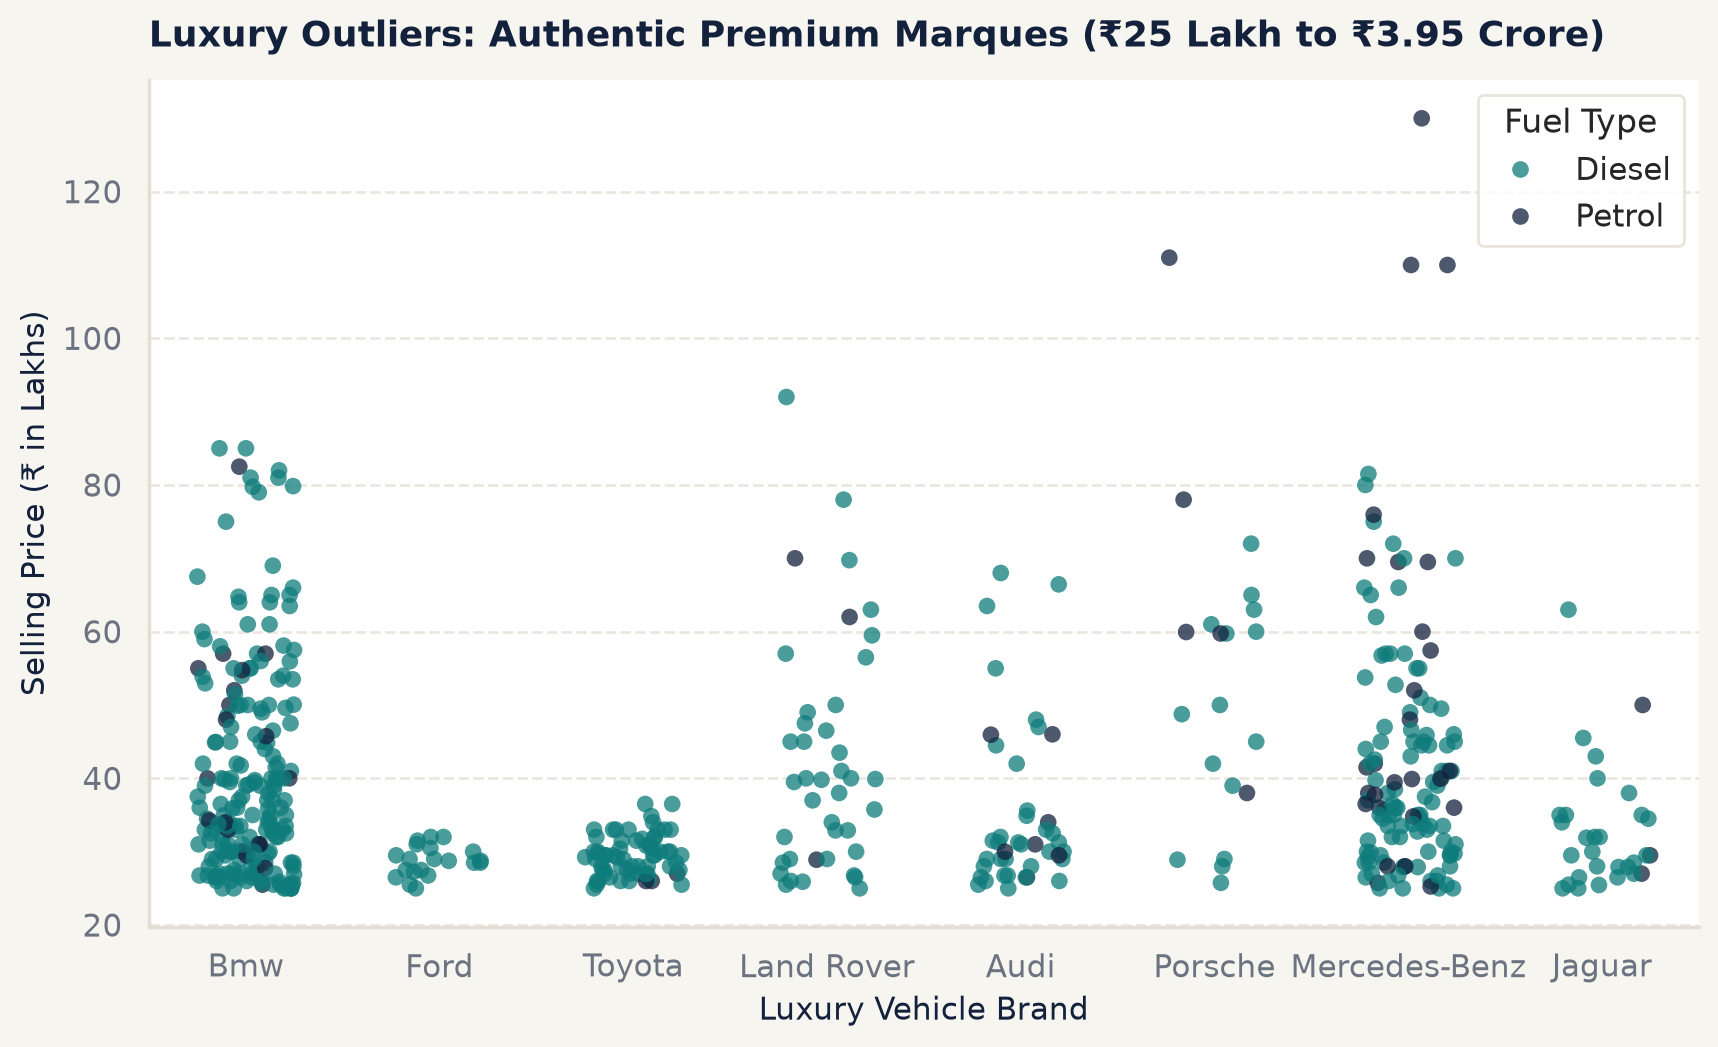
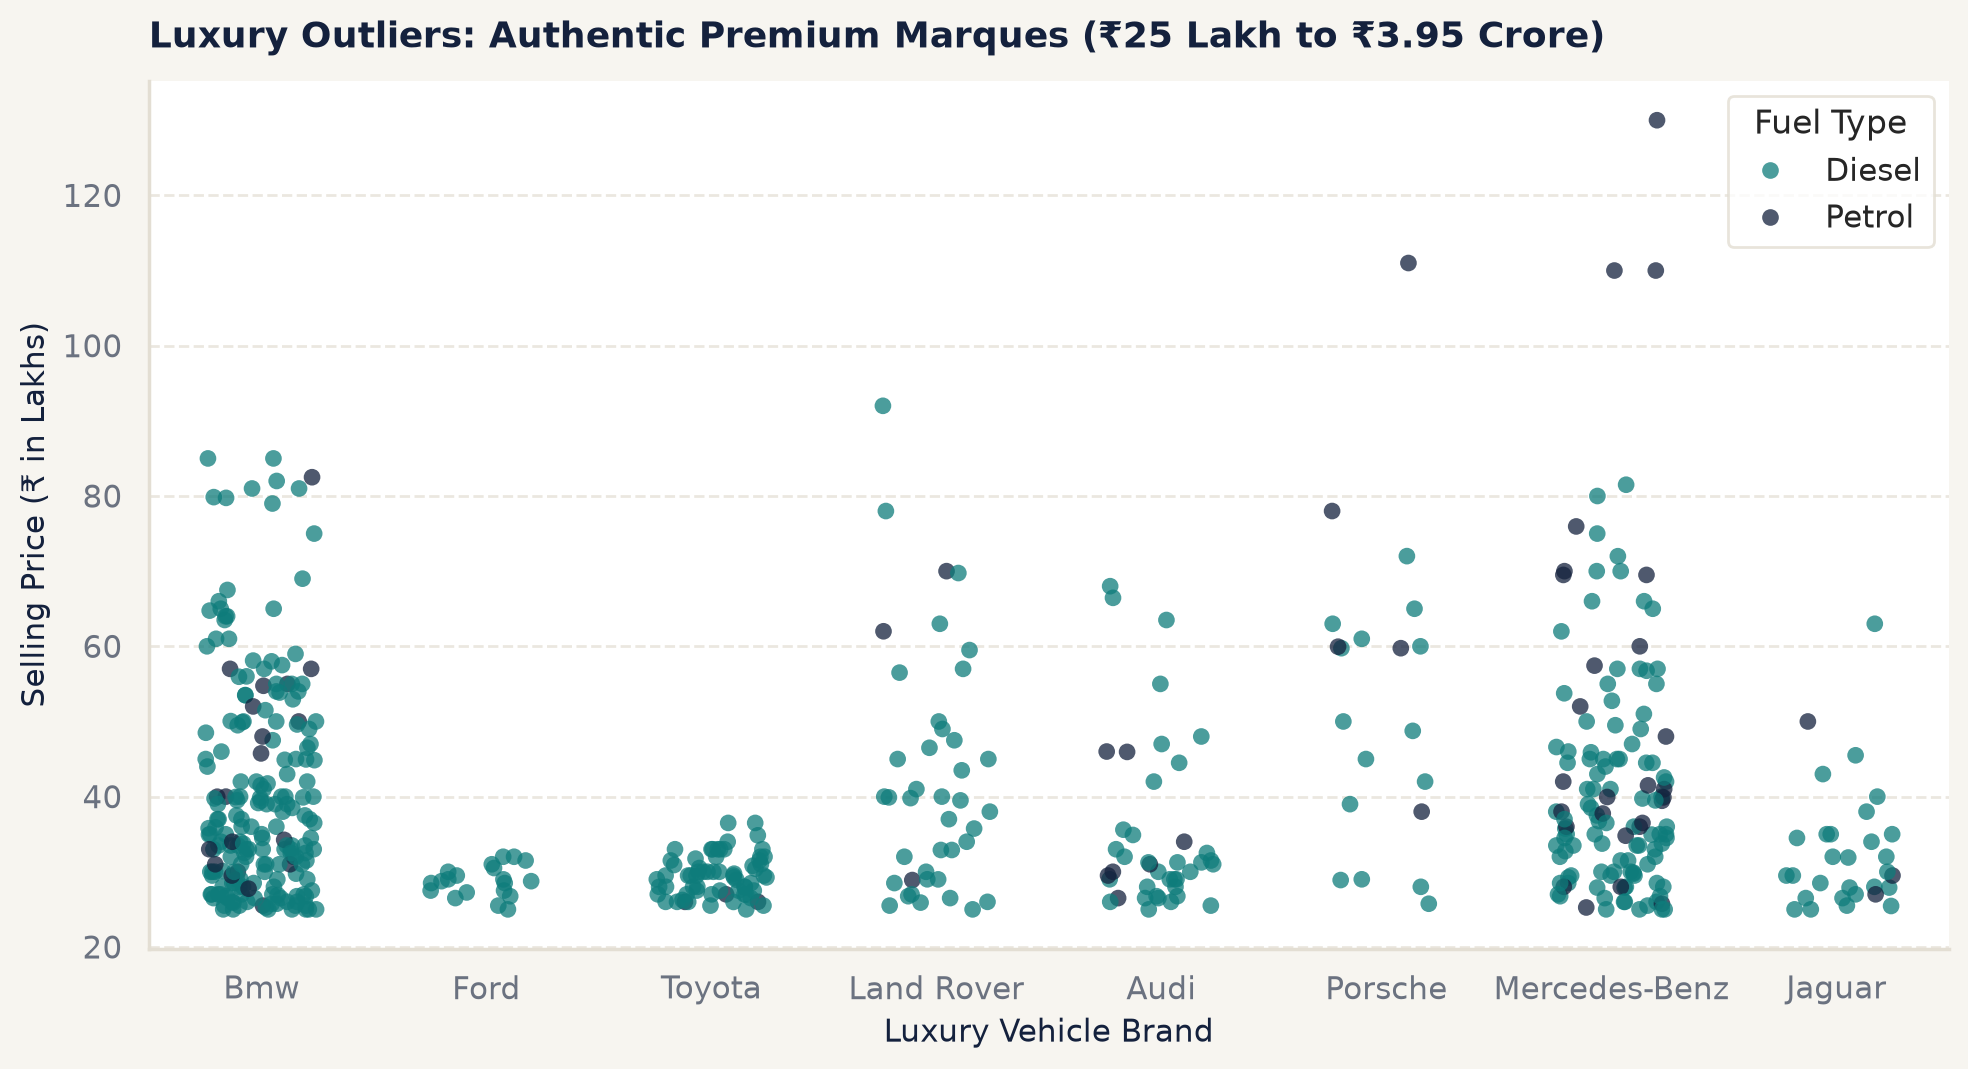
phase-8: keep tests out of generated data, seed strip-plot jitter, add run comparison
test_run_cleaning_end_to_end rewrote data/interim/cars_clean.csv, so make retrained
the model before test and predict. It now writes to tmp_path. eda_26 used unseeded
jitter and differed between runs; it is now seeded with the project seed.
Adds a test that every cleaning rule leaves its input unchanged, and
scripts/compare_runs.py for the clean-clone comparison.

diff --git a/scripts/compare_runs.py b/scripts/compare_runs.py
@@ -1,0 +1,146 @@
+"""Compare the outputs of two checkouts of this project (reproducibility audit, Phase 8).
+
+Usage:
+    python scripts/compare_runs.py <reference_root> <candidate_root> [--out report.csv]
+
+For every CSV under reports/tables and reports/predictions, every JSON under models/, the
+cleaned data and the split files, it reports whether the two runs agree. Numeric columns
+must match within ``RTOL``/``ATOL``; text columns must match exactly. Columns that measure
+wall-clock time or record when or where something ran are skipped (listed in
+``VOLATILE_COLUMNS`` / ``VOLATILE_JSON_KEYS``). PNG figures are compared byte for byte.
+"""
+
+import argparse
+import hashlib
+import json
+import logging
+from pathlib import Path
+
+import numpy as np
+import pandas as pd
+
+RTOL = 1e-6
+ATOL = 1e-9
+CSV_GLOBS = ("reports/tables/*.csv", "reports/predictions/*.csv")
+DATA_FILES = (
+    "data/interim/cars_clean.csv",
+    "data/processed/train.csv",
+    "data/processed/test.csv",
+    "data/processed/split_indices.json",
+)
+FIGURE_GLOB = "reports/figures/*.png"
+SKIPPED_TABLES = {"predictor_timing.csv"}
+VOLATILE_COLUMNS = {
+    "fit_time_sec",
+    "pred_time_sec",
+    "datetime_start",
+    "datetime_complete",
+    "duration",
+}
+VOLATILE_JSON_KEYS = {"timestamp_utc", "git_commit"}
+
+logger = logging.getLogger("compare_runs")
+
+
+def file_digest(path: Path) -> str:
+    """SHA-256 of a file's bytes."""
+    return hashlib.sha256(path.read_bytes()).hexdigest()
+
+
+def max_numeric_gap(left: pd.Series, right: pd.Series) -> float:
+    """Largest absolute difference between two numeric columns (NaN pairs count as equal)."""
+    both_nan = left.isna() & right.isna()
+    gap = (left - right).abs().where(~both_nan, 0.0)
+    return float(gap.max()) if len(gap) else 0.0
+
+
+def is_measure(column: pd.Series) -> bool:
+    """True for numeric, non-boolean columns (compared with a tolerance)."""
+    return pd.api.types.is_numeric_dtype(column) and not pd.api.types.is_bool_dtype(column)
+
+
+def compare_frames(left: pd.DataFrame, right: pd.DataFrame) -> tuple[bool, float, str]:
+    """Compare two tables column by column, skipping volatile columns.
+
+    Returns:
+        tuple: (match, largest numeric gap, note).
+    """
+    if list(left.columns) != list(right.columns) or len(left) != len(right):
+        return False, float("nan"), f"shape {left.shape} vs {right.shape}"
+    worst, failed = 0.0, []
+    for column in left.columns:
+        if column in VOLATILE_COLUMNS:
+            continue
+        a, b = left[column], right[column]
+        if is_measure(a) and is_measure(b):
+            worst = max(worst, max_numeric_gap(a, b))
+            if not np.allclose(a, b, rtol=RTOL, atol=ATOL, equal_nan=True):
+                failed.append(column)
+        elif not a.fillna("").astype(str).equals(b.fillna("").astype(str)):
+            failed.append(column)
+    return not failed, worst, ", ".join(failed)
+
+
+def strip_keys(value: object) -> object:
+    """Drop volatile keys from nested JSON data."""
+    if isinstance(value, dict):
+        return {k: strip_keys(v) for k, v in value.items() if k not in VOLATILE_JSON_KEYS}
+    if isinstance(value, list):
+        return [strip_keys(v) for v in value]
+    return value
+
+
+def compare_file(reference: Path, candidate: Path, relative: str) -> dict[str, object]:
+    """Compare one file present in the reference run with its counterpart."""
+    row: dict[str, object] = {"file": relative, "match": False, "max_abs_gap": np.nan, "note": ""}
+    if not candidate.exists():
+        row["note"] = "missing in candidate"
+    elif relative.endswith(".csv"):
+        match, gap, note = compare_frames(pd.read_csv(reference), pd.read_csv(candidate))
+        row.update(match=match, max_abs_gap=gap, note=note)
+    elif relative.endswith(".json"):
+        left = strip_keys(json.loads(reference.read_text(encoding="utf-8")))
+        right = strip_keys(json.loads(candidate.read_text(encoding="utf-8")))
+        row["match"] = left == right
+    else:
+        row["match"] = file_digest(reference) == file_digest(candidate)
+        row["note"] = "byte comparison"
+    return row
+
+
+def relative_paths(root: Path) -> list[str]:
+    """Every file the audit compares, relative to the project root."""
+    found = [p for pattern in CSV_GLOBS for p in sorted(root.glob(pattern))]
+    found += sorted(root.glob("models/*.json")) + sorted(root.glob(FIGURE_GLOB))
+    names = [p.relative_to(root).as_posix() for p in found if p.name not in SKIPPED_TABLES]
+    return names + [name for name in DATA_FILES if (root / name).exists()]
+
+
+def compare_runs(reference_root: Path, candidate_root: Path) -> pd.DataFrame:
+    """Compare every audited file of the reference run with the candidate run."""
+    rows = [
+        compare_file(reference_root / name, candidate_root / name, name)
+        for name in relative_paths(reference_root)
+    ]
+    return pd.DataFrame(rows)
+
+
+def main() -> None:
+    """Parse arguments, compare, log a summary and optionally save the full comparison."""
+    logging.basicConfig(level=logging.INFO, format="%(message)s")
+    parser = argparse.ArgumentParser(description=__doc__.splitlines()[0])
+    parser.add_argument("reference", type=Path)
+    parser.add_argument("candidate", type=Path)
+    parser.add_argument("--out", type=Path, default=None)
+    args = parser.parse_args()
+    result = compare_runs(args.reference, args.candidate)
+    if args.out:
+        result.to_csv(args.out, index=False)
+    logger.info("compared %d files, %d match", len(result), int(result["match"].sum()))
+    for row in result[~result["match"].astype(bool)].itertuples():
+        logger.info("DIFFERS: %s (%s)", row.file, row.note)
+    logger.info("largest numeric gap in matching tables: %s", result["max_abs_gap"].max())
+
+
+if __name__ == "__main__":
+    main()

diff --git a/tests/test_data.py b/tests/test_data.py
@@ -1,5 +1,7 @@
 """Unit and integration tests for data loading, validation, and cleansing rules."""
 
+from pathlib import Path
+
 import pandas as pd
 import pytest
 
@@ -74,6 +76,24 @@ def test_drop_exact_duplicates(sample_raw_df: pd.DataFrame) -> None:
     assert log.rows_after == 4
 
 
+@pytest.mark.parametrize(
+    "rule",
+    [
+        drop_identifier_columns,
+        normalise_text,
+        drop_exact_duplicates,
+        fix_invalid_seats,
+        lambda frame: treat_km_outliers(frame, km_cap=500000),
+    ],
+)
+def test_cleaning_rules_do_not_mutate_their_input(sample_raw_df: pd.DataFrame, rule) -> None:
+    """A4: every cleaning rule returns a new frame and leaves its input untouched."""
+    before = sample_raw_df.copy(deep=True)
+    cleaned, _ = rule(sample_raw_df)
+    pd.testing.assert_frame_equal(sample_raw_df, before)
+    assert cleaned is not sample_raw_df
+
+
 def test_fix_invalid_seats(sample_raw_df: pd.DataFrame) -> None:
     """Verify that seats=0 is imputed with brand/model modal count."""
     cleaned, log = fix_invalid_seats(sample_raw_df)
@@ -126,10 +146,15 @@ def test_validate_ranges() -> None:
         validate_ranges(invalid_df)
 
 
-def test_run_cleaning_end_to_end() -> None:
-    """Test full cleaning pipeline on the actual raw cardekho dataset."""
-    config = get_config()
-    cleaned_df, log_df = run_cleaning()
+def test_run_cleaning_end_to_end(tmp_path: Path) -> None:
+    """Test full cleaning pipeline on the actual raw cardekho dataset.
+
+    Outputs go to tmp_path: rewriting data/interim/cars_clean.csv would make the Makefile
+    treat the split and model as stale (D-037).
+    """
+    interim_path = tmp_path / "cars_clean.csv"
+    log_path = tmp_path / "cleaning_log.csv"
+    cleaned_df, log_df = run_cleaning(interim_path=interim_path, log_path=log_path)
 
     # Reconcile row counts: raw 15,411 minus 167 duplicates = 15,244 rows
     assert len(cleaned_df) == 15244
@@ -144,8 +169,10 @@ def test_run_cleaning_end_to_end() -> None:
     assert "Electric" not in cleaned_df["fuel_type"].values
 
     # Verify output files exist
-    assert (config.paths.interim_data_dir / "cars_clean.csv").exists()
-    assert (config.paths.tables_dir / "cleaning_log.csv").exists()
+    assert interim_path.exists()
+    assert log_path.exists()
+    saved_log = pd.read_csv(get_config().paths.tables_dir / "cleaning_log.csv")
+    pd.testing.assert_frame_equal(log_df.reset_index(drop=True), saved_log, check_dtype=False)
 
     # Verify cleaning log structure
     assert len(log_df) == 7

diff --git a/src/carprice/viz.py b/src/carprice/viz.py
@@ -583,17 +583,26 @@ def plot_luxury_outliers(df: pd.DataFrame) -> plt.Figure:
     top_lux_brands = lux_df["brand"].value_counts().head(8).index
     lux_filtered = lux_df[lux_df["brand"].isin(top_lux_brands)]
 
-    sns.stripplot(
-        data=lux_filtered,
-        x="brand",
-        y=lux_filtered["selling_price"] / 100000,
-        hue="fuel_type",
-        palette=CATEGORICAL_PALETTE[:2],
-        jitter=0.25,
-        size=6,
-        alpha=0.75,
-        ax=ax_lux,
-    )
+    # seaborn draws strip jitter from numpy's global generator; seed it with the project seed
+    # for this call only, so the figure is identical on every run (D-037).
+    from carprice.config import get_config
+
+    saved_state = np.random.get_state()
+    np.random.seed(get_config().project.random_seed)
+    try:
+        sns.stripplot(
+            data=lux_filtered,
+            x="brand",
+            y=lux_filtered["selling_price"] / 100000,
+            hue="fuel_type",
+            palette=CATEGORICAL_PALETTE[:2],
+            jitter=0.25,
+            size=6,
+            alpha=0.75,
+            ax=ax_lux,
+        )
+    finally:
+        np.random.set_state(saved_state)
     ax_lux.set_title("Luxury Outliers: Authentic Premium Marques (₹25 Lakh to ₹3.95 Crore)", pad=12)
     ax_lux.set_xlabel("Luxury Vehicle Brand")
     ax_lux.set_ylabel("Selling Price (₹ in Lakhs)")
